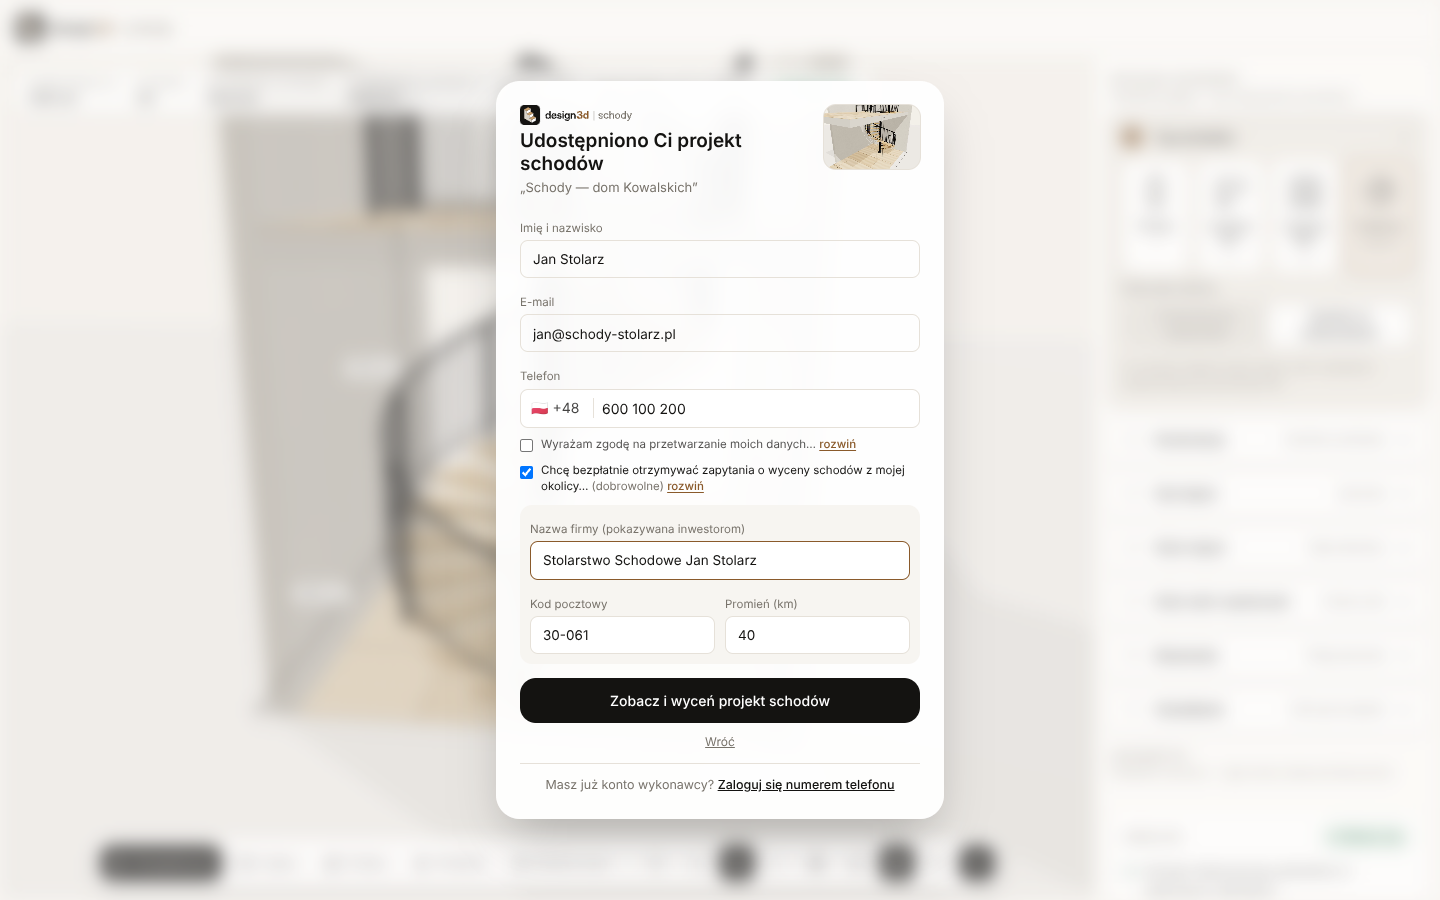
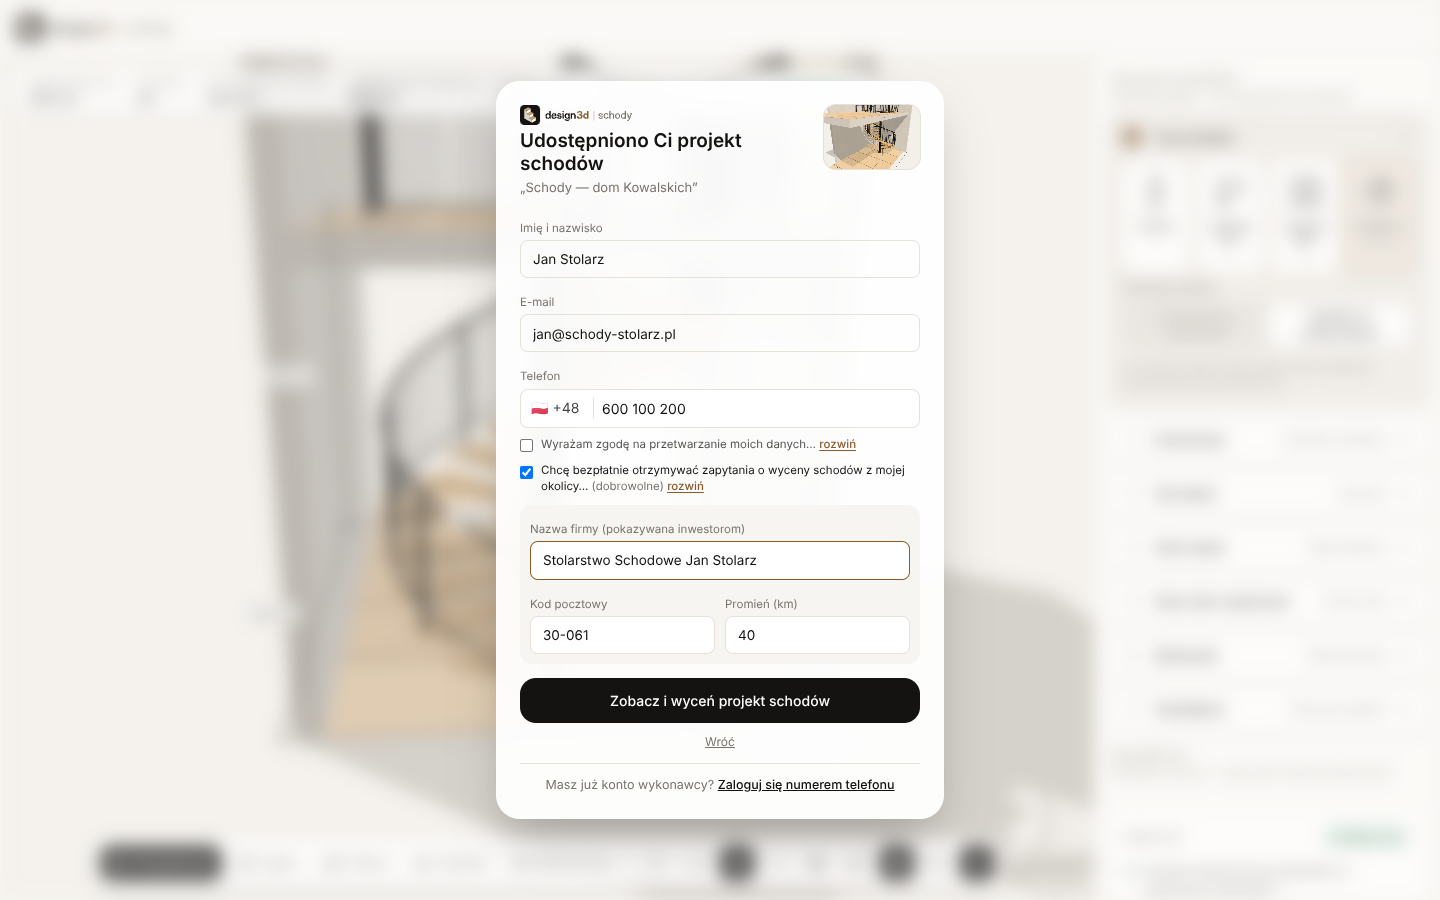
Wizualizacja 3D: cieniowanie kontaktowe, neutralne mapowanie tonów, poświata LED, lepsze światło i posadzka
- Effects.tsx: EffectComposer (MSAA, bufor HDR) z N8AO, tonowaniem Neutral i poświatą LED nocą
- Strażnik płynności wyłącza AO poniżej ~30 kl./s; rzuty bez AO; bez GPU lub po błędzie — zwykły render
- Światło: kontra dla ciemnej stali, mapa cieni 4096 px na komputerze, grunt jako łapacz cieni
- Materiały: posadzka z desek z mapą wypukłości, minimalne albedo czarnej stali
- Nowe zależności konfiguratora: postprocessing, n8ao

Claude-Session: https://claude.ai/code/session_01Y4Tb4zfu7dXnHSeBjFSHkv

diff --git a/configurator/src/three/Effects.tsx b/configurator/src/three/Effects.tsx
@@ -1,0 +1,112 @@
+// Postprodukcja: cieniowanie kontaktowe (ambient occlusion), mapowanie tonów i — nocą — poświata LED.
+// Renderuje scenę przez EffectComposer (MSAA w buforze HDR). Gdy urządzenie nie nadąża, AO wyłącza się samo;
+// gdy kompozytora nie da się utworzyć — scena renderuje się zwykłą ścieżką.
+import { useEffect, useMemo, useRef, useState } from 'react';
+import { useFrame, useThree } from '@react-three/fiber';
+import * as THREE from 'three';
+import { BloomEffect, EffectComposer, EffectPass, RenderPass, ToneMappingEffect, ToneMappingMode } from 'postprocessing';
+import { N8AOPostPass } from 'n8ao';
+import { capture } from './capture';
+
+/** ?fx=0 wyłącza postprodukcję, ?fx=1 wymusza pełną (bez automatycznego wyłączania AO) — do diagnostyki i testów. */
+const FX = typeof location !== 'undefined' ? new URLSearchParams(location.search).get('fx') : null;
+export const fxEnabled = FX !== '0';
+
+function softwareRenderer(gl: THREE.WebGLRenderer): boolean {
+  try {
+    const c = gl.getContext();
+    const ext = c.getExtension('WEBGL_debug_renderer_info');
+    const name = String(ext ? c.getParameter(ext.UNMASKED_RENDERER_WEBGL) : c.getParameter(c.RENDERER));
+    return /swiftshader|llvmpipe|software|softpipe/i.test(name);
+  } catch { return false; }
+}
+
+interface Rig { composer: EffectComposer; ao: N8AOPostPass; bloom: BloomEffect; bloomPass: EffectPass }
+
+export function Effects({ hq, night, glow }: { hq: boolean; night: boolean; glow: boolean }) {
+  const gl = useThree((s) => s.gl);
+  const scene = useThree((s) => s.scene);
+  const camera = useThree((s) => s.camera);
+  const size = useThree((s) => s.size);
+  const dpr = useThree((s) => s.viewport.dpr);
+
+  // awaria w trakcie renderu (np. sterownik bez wymaganych formatów) → trwały powrót do zwykłego renderu
+  const [broken, setBroken] = useState(false);
+  const built = useMemo<Rig | null>(() => {
+    try {
+      // render programowy (brak GPU: SwiftShader, llvmpipe) — postprodukcja byłaby tam zbyt wolna
+      if (FX !== '1' && softwareRenderer(gl)) return null;
+      const composer = new EffectComposer(gl, { multisampling: Math.min(4, gl.capabilities.maxSamples), frameBufferType: THREE.HalfFloatType });
+      composer.addPass(new RenderPass(scene, camera));
+      const ao = new N8AOPostPass(scene, camera);
+      const c = ao.configuration;
+      c.aoRadius = 0.6;          // metry: styk stopnia z belką, ściany z posadzką, tralki z pochwytem
+      c.distanceFalloff = 0.8;
+      c.intensity = 3.4;
+      c.color = new THREE.Color('#1c130b'); // ciepły cień zamiast szarego „brudu”
+      c.halfRes = false; // tryb połówkowy n8ao nie działa z three r187 (wielokrotne cele renderowania) — na telefonie niższa jakość próbkowania
+      c.transparencyAware = false; // szkło nie zapisuje głębi — nie rzuca AO
+      ao.setQualityMode(hq ? 'Medium' : 'Performance');
+      composer.addPass(ao);
+      const bloom = new BloomEffect({ mipmapBlur: true, luminanceThreshold: 1.1, luminanceSmoothing: 0.25, intensity: 0.9, radius: 0.7 });
+      const bloomPass = new EffectPass(camera, bloom);
+      composer.addPass(bloomPass);
+      composer.addPass(new EffectPass(camera, new ToneMappingEffect({ mode: ToneMappingMode.NEUTRAL })));
+      return { composer, ao, bloom, bloomPass };
+    } catch (e) {
+      console.warn('Postprodukcja niedostępna — zwykły render', e);
+      return null;
+    }
+  }, [gl, scene, camera, hq]);
+
+  const rig = broken ? null : built;
+  useEffect(() => () => built?.composer.dispose(), [built]);
+  useEffect(() => { rig?.composer.setSize(size.width, size.height, false); }, [rig, size.width, size.height, dpr]);
+  // poświata tylko nocą przy włączonych LED — w dzień ściany w słońcu przekraczają próg i „świeciłyby”
+  useEffect(() => { if (rig) rig.bloomPass.enabled = night && glow; }, [rig, night, glow]);
+
+  // tonowanie robi kompozytor — renderer zostawia bufor liniowy
+  useEffect(() => {
+    if (!rig) return;
+    const prev = gl.toneMapping;
+    gl.toneMapping = THREE.NoToneMapping;
+    return () => { gl.toneMapping = prev; };
+  }, [gl, rig]);
+
+  // zrzut PNG (miniatura projektu) tą samą ścieżką co ekran
+  useEffect(() => {
+    if (!rig) return;
+    const prev = capture.fn;
+    capture.fn = () => { rig.composer.render(); return gl.domElement.toDataURL('image/png'); };
+    return () => { capture.fn = prev; };
+  }, [gl, rig]);
+
+  // strażnik płynności: jeśli średnio wychodzi < ~30 kl./s, wyłącz AO (największy koszt)
+  const perf = useRef({ n: 0, sum: 0, off: false });
+  // rzuty (z góry / z boku) to widoki techniczne — bez AO, czysty rysunek
+  const ortho = (camera as THREE.OrthographicCamera).isOrthographicCamera === true;
+  useEffect(() => { perf.current = { n: 0, sum: 0, off: ortho }; if (rig) rig.ao.enabled = !ortho; }, [rig, ortho]);
+
+  useFrame((_, dt) => {
+    if (!rig) { gl.render(scene, camera); return; }
+    const p = perf.current;
+    if (FX !== '1' && !p.off && document.visibilityState === 'visible' && dt < 0.5) {
+      p.n++;
+      if (p.n > 20) p.sum += dt; // pomiń rozgrzewkę (kompilacja shaderów)
+      // szybka decyzja przy wyraźnie wolnym renderze, potem ocena co ~90 klatek
+      if (p.n === 40 && p.sum / 20 > 0.08) { rig.ao.enabled = false; p.off = true; }
+      if (p.n === 110) {
+        if (p.sum / 90 > 0.032) { rig.ao.enabled = false; p.off = true; }
+        else { p.n = 20; p.sum = 0; }
+      }
+    }
+    try {
+      rig.composer.render(dt);
+    } catch (e) {
+      console.warn('Postprodukcja wyłączona po błędzie renderu', e);
+      gl.setRenderTarget(null);
+      setBroken(true);
+    }
+  }, 1);
+  return null;
+}

diff --git a/configurator/src/three/textures.ts b/configurator/src/three/textures.ts
@@ -26,40 +26,76 @@ export function woodTextures(key: WoodKey): { map: THREE.CanvasTexture; bump: TH
   return out;
 }
 
-/** Deski dębowe na posadzkę: 2,4 × 2,4 m, deski 20 cm. */
-export function floorTexture(dark = false): THREE.CanvasTexture {
-  const ck = `floor:${dark}`;
+/**
+ * Deski dębowe na posadzkę: kafel 2,4 × 2,4 m, deski 20 cm o losowych długościach (bezszwowo w obu osiach).
+ * Usłojenie liczone per piksel jak w stopnicach; osobna mapa wypukłości (słoje + fugi między deskami).
+ */
+export function floorTextures(): { map: THREE.CanvasTexture; bump: THREE.CanvasTexture } {
+  const ck = 'floor3';
   if (cache.has(ck)) return cache.get(ck);
   const S = 1024;
+  const ROWS = 12;
+  const plank = S / ROWS;
   const [c, g] = canvas(S, S);
-  const plank = S / 12;
-  const base = hex(dark ? '#a98a68' : '#cdb08a');
-  for (let r = 0; r < 12; r++) {
-    let x = -Math.floor(hash(r * 3.1) * 300);
+  const [cb, gb] = canvas(S, S);
+  const img = g.createImageData(S, S);
+  const bimg = gb.createImageData(S, S);
+  const dark = hex('#a98660');
+  const base = hex('#cbb08b');
+  const light = hex('#dcc6a3');
+  for (let r = 0; r < ROWS; r++) {
+    // podział rzędu na deski; przesunięcie rzędu, żeby styki nie wypadały w jednej linii
+    const off = Math.floor(hash(r * 3.1 + 0.7) * S);
+    const ends: number[] = [];
+    let x = 0;
     let j = 0;
     while (x < S) {
-      const len = 260 + Math.floor(hash(r * 7.3 + j * 1.7) * 420);
-      const tone = (hash(r * 11.1 + j * 5.7) - 0.5) * 30;
-      for (let yy = 0; yy < plank; yy++) {
-        const v = yy / plank;
-        for (let k = 0; k < 6; k++) {
-          const yLine = Math.round(r * plank + yy);
-          const shade = Math.sin((v * 7 + fbm((x + k * 40) / 120, r + j) * 3) * Math.PI) * 10;
-          g.fillStyle = `rgb(${base[0] + tone + shade},${base[1] + tone + shade * 0.85},${base[2] + tone + shade * 0.7})`;
-          g.fillRect(x + (k * len) / 6, yLine, len / 6 + 1, 1);
-        }
-      }
-      g.fillStyle = 'rgba(70,50,30,0.55)';
-      g.fillRect(x, r * plank, 2, plank);
-      x += len;
+      x += 300 + Math.floor(hash(r * 7.3 + j * 1.7) * 420);
+      if (S - x < 200) x = S;
+      ends.push(Math.min(S, x));
       j++;
     }
-    g.fillStyle = 'rgba(70,50,30,0.5)';
-    g.fillRect(0, r * plank, S, 2);
+    for (let px = 0; px < S; px++) {
+      const xr = (px + off) % S;
+      let seg = 0;
+      while (ends[seg] <= xr) seg++;
+      const x0 = seg ? ends[seg - 1] : 0;
+      const seed = r * 17 + seg * 5 + 1;
+      const tone = (hash(seed * 9.1) - 0.5) * 0.3;
+      const freq = 0.5 + hash(seed * 5.3) * 0.8;
+      const u = xr / S;
+      const warp = fbm(u * 2.2 + seed, seed) * 1.2; // długie, spokojne słoje (deska, nie sklejka)
+      const wob = fbm(u * 30, seed + 3) * 0.5;
+      const endGap = xr - x0 < 2;
+      for (let py = 0; py < plank; py++) {
+        const y = Math.round(r * plank) + py;
+        if (y >= S) break;
+        const v = py / plank;
+        const ring = Math.sin((v * 13 * freq + warp) * Math.PI + wob);
+        const grain = Math.pow(Math.abs(ring), 0.6);
+        const fine = (hash(px * 0.37 + y * 91.1 + seed) - 0.5) * 0.1;
+        let t = 0.5 + (grain - 0.5) * 0.2 + tone + fine;
+        if (hash(Math.floor(px / 7) * 7.7 + y * 13.3 + seed) > 0.988) t -= 0.2; // pory
+        t = Math.min(1, Math.max(0, t));
+        const gap = endGap || py < 2;
+        const k = gap ? 0.55 : py === 2 || py >= plank - 1 ? 0.9 : 1; // fuga + delikatna faza krawędzi
+        const o = (y * S + px) * 4;
+        for (let i = 0; i < 3; i++) {
+          const col = t < 0.5 ? dark[i] + (base[i] - dark[i]) * (t / 0.5) : base[i] + (light[i] - base[i]) * ((t - 0.5) / 0.5);
+          img.data[o + i] = col * k;
+        }
+        img.data[o + 3] = 255;
+        const bv = gap ? 30 : Math.round((0.55 + grain * 0.25 + fine) * 255);
+        bimg.data[o] = bimg.data[o + 1] = bimg.data[o + 2] = bv;
+        bimg.data[o + 3] = 255;
+      }
+    }
   }
-  const t = tex(c, [1 / 2.4, 1 / 2.4]);
-  cache.set(ck, t);
-  return t;
+  g.putImageData(img, 0, 0);
+  gb.putImageData(bimg, 0, 0);
+  const out = { map: tex(c, [1 / 2.4, 1 / 2.4]), bump: tex(cb, [1 / 2.4, 1 / 2.4], false) };
+  cache.set(ck, out);
+  return out;
 }
 
 /** Subtelna faktura ciepłej białej ściany: 2 × 2 m. */

diff --git a/configurator/src/three/materials.ts b/configurator/src/three/materials.ts
@@ -3,7 +3,7 @@ import * as THREE from 'three';
 import { FINISHES, GLASS_TINTS } from '../engine/catalog';
 import type { Config } from '../engine/types';
 import type { MatKey } from './geom/primitives';
-import { brushedRoughness, floorTexture, meshAlpha, perforatedAlpha, wallTexture, woodTextures } from './textures';
+import { brushedRoughness, floorTextures, meshAlpha, perforatedAlpha, wallTexture, woodTextures } from './textures';
 
 export interface Materials {
   stair: Record<MatKey, THREE.Material>;
@@ -12,12 +12,15 @@ export interface Materials {
   wall: THREE.MeshStandardMaterial;
   wallGhost: THREE.MeshStandardMaterial;
   slab: THREE.MeshStandardMaterial;
-  ground: THREE.MeshStandardMaterial;
+  ground: THREE.ShadowMaterial;
 }
 
 export function createMaterials(): Materials {
   const steel = new THREE.MeshStandardMaterial({ color: '#141414', roughness: 0.78, metalness: 0.15 });
   const railSteel = new THREE.MeshStandardMaterial({ color: '#141414', roughness: 0.78, metalness: 0.15 });
+  // ciemna stal odbija otoczenie mocniej niż reszta sceny — inaczej czarna konstrukcja zlewa się w plamę
+  steel.envMapIntensity = 2.2;
+  railSteel.envMapIntensity = 2.2;
   const w = woodTextures('oakNatural');
   const wood = new THREE.MeshStandardMaterial({ map: w.map, bumpMap: w.bump, bumpScale: 0.6, roughness: 0.58, metalness: 0 });
   const railWood = new THREE.MeshStandardMaterial({ map: w.map, roughness: 0.55, metalness: 0 });
@@ -31,20 +34,26 @@ export function createMaterials(): Materials {
   const mesh = new THREE.MeshStandardMaterial({ color: '#141414', roughness: 0.6, metalness: 0.3, alphaMap: meshAlpha(), alphaTest: 0.5, side: THREE.DoubleSide });
   mesh.alphaToCoverage = true;
   const wallTex = wallTexture();
+  const fl = floorTextures();
   return {
     stair: { steel, railSteel, wood, concrete, riser, railWood, led, glass, glassEdge, perforated, mesh },
-    floor: new THREE.MeshStandardMaterial({ map: floorTexture(), roughness: 0.6 }),
-    upperFloor: new THREE.MeshStandardMaterial({ map: floorTexture(), roughness: 0.6 }),
+    // lakier matowy: lekki połysk pod światło + wypukłość słojów i fug
+    floor: new THREE.MeshStandardMaterial({ map: fl.map, bumpMap: fl.bump, bumpScale: 0.9, roughness: 0.5 }),
+    upperFloor: new THREE.MeshStandardMaterial({ map: fl.map, bumpMap: fl.bump, bumpScale: 0.9, roughness: 0.5 }),
     wall: new THREE.MeshStandardMaterial({ map: wallTex, roughness: 0.92, color: '#ffffff' }),
     wallGhost: new THREE.MeshStandardMaterial({ map: wallTex, roughness: 0.92, transparent: true, opacity: 0.22, depthWrite: false }),
     slab: new THREE.MeshStandardMaterial({ color: '#f2efe9', roughness: 0.9 }),
-    ground: new THREE.MeshStandardMaterial({ color: '#e9e5de', roughness: 1 }),
+    // „łapacz cieni”: grunt poza pokojem jest przezroczysty i pokazuje tylko cień — bez widocznej linii horyzontu
+    ground: new THREE.ShadowMaterial({ color: '#3b3128', opacity: 0.22 }),
   };
 }
 
 function applySteel(m: THREE.MeshStandardMaterial, color: string, finish: string) {
   const f = FINISHES.find((x) => x.key === finish) ?? FINISHES[0];
   m.color.set(color);
+  // żadna farba nie jest idealnie czarna: albedo min. ~3,5% — dzięki temu czarna konstrukcja ma widoczną bryłę i cieniowanie
+  const lift = 0.045;
+  m.color.setRGB(Math.max(m.color.r, lift), Math.max(m.color.g, lift), Math.max(m.color.b, lift), THREE.LinearSRGBColorSpace);
   m.roughness = f.roughness;
   m.metalness = f.metalness;
   const wantMap = finish === 'brushed' ? brushedRoughness() : null;

diff --git a/configurator/src/three/Scene.tsx b/configurator/src/three/Scene.tsx
@@ -1,6 +1,7 @@
 // Scena 3D — ładowana leniwie (three w osobnym chunku).
 import { useEffect, useMemo, useRef, useState } from 'react';
 import { Canvas, useThree } from '@react-three/fiber';
+import * as THREE from 'three';
 import { useIsMobile } from '../ui/useIsMobile';
 import { useConfig, useSolved, useView } from '../store/store';
 import { createMaterials, updateMaterials } from './materials';
@@ -13,6 +14,7 @@ import { Overlays } from './Overlays';
 import { LabelContext, LabelLayer, LabelUpdater } from './Labels';
 import { capture } from './capture';
 import { CommentPins } from './CommentPins';
+import { Effects, fxEnabled } from './Effects';
 import { useStudio } from '../studio/studioStore';
 import type { ThreeEvent } from '@react-three/fiber';
 import type { DimView } from '../engine/dimensions';
@@ -51,7 +53,7 @@ export default function Scene() {
 
   return (
     <div className={`absolute inset-0 ${commentMode ? 'cursor-crosshair' : ''}`}>
-      <Canvas shadows="percentage" gl={{ antialias: true, preserveDrawingBuffer: false, powerPreference: 'high-performance' }} dpr={[1, 2]} data-testid="stair-canvas">
+      <Canvas shadows="percentage" gl={{ antialias: true, preserveDrawingBuffer: false, powerPreference: 'high-performance', toneMapping: THREE.NeutralToneMapping }} dpr={[1, 2]} data-testid="stair-canvas">
         <LabelContext.Provider value={layer}>
           <CameraRig config={config} solved={solved} view={view} />
           <Lighting config={config} solved={solved} hq={!mobile} />
@@ -64,6 +66,7 @@ export default function Scene() {
           <Dimensions config={config} solved={solved} view={dimView} sideFlip={view.sideFlip} />
           <LabelUpdater />
           <Capture />
+          {fxEnabled && <Effects hq={!mobile} night={config.lighting.night} glow={config.lighting.led} />}
         </LabelContext.Provider>
       </Canvas>
       <div ref={labelRoot} className="pointer-events-none absolute inset-0 overflow-hidden" />

diff --git a/configurator/src/three/Lighting.tsx b/configurator/src/three/Lighting.tsx
@@ -37,14 +37,16 @@ export function Lighting({ config, solved, hq = true }: { config: Config; solved
   const ledColor = lighting.ledTemp === 2700 ? '#ffb46b' : '#ffe2c2';
   return (
     <>
-      <hemisphereLight args={[night ? '#3a4050' : '#fffaf0', night ? '#20232a' : '#d8cdbd', night ? 0.15 : 0.55]} />
+      <hemisphereLight args={[night ? '#3a4050' : '#f3f6fb', night ? '#20232a' : '#d9cfc0', night ? 0.15 : 0.58]} />
+      {/* kontra bez cieni z przeciwnej strony: wydobywa bryłę ciemnej stali i spody stopni */}
+      {!night && <directionalLight position={[W / 2 - 7, H * 0.6, D / 2 - 4]} intensity={0.45} color="#eaf0ff" />}
       <directionalLight
         ref={sun}
         castShadow
         position={[W / 2 + 6, H + 7, D / 2 + 5]}
-        intensity={night ? 0 : 2.4}
-        color="#fff4e2"
-        shadow-mapSize={[2048, 2048]}
+        intensity={night ? 0 : 2.3}
+        color="#fff8ee"
+        shadow-mapSize={hq ? [4096, 4096] : [2048, 2048]}
         shadow-radius={hq ? 3 : 2}
         shadow-bias={-0.0004}
         shadow-normalBias={0.02}
@@ -54,7 +56,7 @@ export function Lighting({ config, solved, hq = true }: { config: Config; solved
       {lighting.led && night && ledLights.map((p, i) => (
         <pointLight key={i} position={p} intensity={2.6 * lighting.ledBrightness} distance={2.6} decay={2} color={ledColor} />
       ))}
-      <Environment resolution={256} environmentIntensity={night ? 0.12 : 0.75} background={false} frames={1}>
+      <Environment resolution={256} environmentIntensity={night ? 0.12 : 0.72} background={false} frames={1}>
         {/* jasne, ciepłe tło otoczenia: metal (np. szampański, szczotkowany) odbija wnętrze zamiast czerni */}
         <color attach="background" args={['#5f584e']} />
         <Lightformer form="rect" intensity={2.2} color="#fffaf2" position={[0, 6, 0]} rotation-x={Math.PI / 2} scale={[12, 12, 1]} />

diff --git a/configurator/src/three/n8ao.d.ts b/configurator/src/three/n8ao.d.ts
@@ -1,0 +1,14 @@
+declare module 'n8ao' {
+  import type { Camera, Color, Scene } from 'three';
+  import { Pass } from 'postprocessing';
+  export class N8AOPostPass extends Pass {
+    constructor(scene: Scene, camera: Camera, width?: number, height?: number);
+    camera: Camera;
+    configuration: {
+      aoRadius: number; distanceFalloff: number; intensity: number; color: Color; halfRes: boolean; aoSamples: number; denoiseSamples: number; denoiseRadius: number;
+      screenSpaceRadius: boolean; depthAwareUpsampling: boolean; gammaCorrection: boolean; transparencyAware: boolean; accumulate: boolean; biasOffset: number; biasMultiplier: number;
+    };
+    setQualityMode(mode: 'Performance' | 'Low' | 'Medium' | 'High' | 'Ultra'): void;
+    setSize(width: number, height: number): void;
+  }
+}

diff --git a/configurator/src/three/Room.tsx b/configurator/src/three/Room.tsx
@@ -64,7 +64,8 @@ export function Room({ config, solved, view, mats }: Props) {
   return (
     <group>
       {/* grunt poza pokojem */}
-      <mesh rotation-x={-Math.PI / 2} position={[W / 2, -0.002, D / 2]} receiveShadow material={mats.ground}>
+      {/* łapacz cieni: tylko w dzień i w widokach perspektywicznych (w rzutach i nocą tło zostaje czyste) */}
+      <mesh rotation-x={-Math.PI / 2} position={[W / 2, -0.002, D / 2]} receiveShadow material={mats.ground} visible={!config.lighting.night && view.camera !== 'top' && view.camera !== 'side'}>
         <planeGeometry args={[W + 30, D + 30]} />
       </mesh>
       {/* posadzka z desek (także poza pokojem przy brakujących ścianach) */}

diff --git a/README.md b/README.md
@@ -29,6 +29,11 @@ npm start          # http://localhost:3000/  (PORT z env)
 - **LED przy szkle:** przy szklanej balustradzie oprawy punktowe i profil wzdłuż biegu są dostępne tylko, gdy każdy bieg ma obok ścianę (inaczej byłyby za szkłem) — wtedy zostaje taśma pod noskami.
 - **Telefon / iOS:** wszystkie pola tekstowe, listy i pola wielowierszowe mają na ekranach dotykowych czcionkę ≥ 16 px (reguła w `configurator/src/index.css` i `public/admin/styles.css`), więc Safari nie przybliża strony przy wpisywaniu. „Imię i nazwisko” to wszędzie jedno pole — serwer rozdziela je na imię i nazwisko.
 - **Fokus na telefonie:** pole z fokusem przewija się w widoczny obszar po wysunięciu klawiatury (w panelu — tuż pod przyklejoną scenę, w oknach — na środek); w „Zapisz i udostępnij” kursor trafia kolejno w imię i nazwisko, kod SMS, kod pocztowy.
+- **Jakość wizualizacji 3D** (`src/three/Effects.tsx`, `Lighting.tsx`, `materials.ts`, `textures.ts`):
+  - postprodukcja przez `postprocessing` + `n8ao`: cieniowanie kontaktowe (ambient occlusion), neutralne mapowanie tonów (Khronos PBR Neutral — drewno zachowuje kolor) i nocą poświata LED;
+  - AO wyłącza się samo, gdy render spada poniżej ~30 kl./s; w rzutach z góry i z boku jest wyłączone. Bez GPU (render programowy) albo po błędzie scena wraca do zwykłego renderu. `?fx=0` wyłącza efekty, `?fx=1` wymusza je (testy);
+  - światło: mocniejszy kontrast słońce / otoczenie, kontra wydobywająca ciemną stal, mapa cieni 4096 px na komputerze; grunt poza pokojem jest „łapaczem cieni” (bez linii horyzontu);
+  - materiały: nowa posadzka z desek (słoje i fugi z mapą wypukłości), czerń stali z minimalnym albedo, żeby konstrukcja miała widoczną bryłę.
 - **Logowanie numerem telefonu i kodem SMS** (`POST /api/studio/login/start`, `/login/verify`, `/logout`):
   - **Wykonawca:** wchodzi do panelu przez `/konfigurator/firma` (ekran logowania przy braku sesji) albo z bramki udostępnionego linku („Masz już konto?”). Wylogowanie jest w Profilu firmy.
   - **Klient:** pozycja „Moje projekty — zaloguj się numerem” w menu „Zapisz ▾” albo link `/konfigurator/?login=1` („Moje projekty” na landingu). Po zalogowaniu projekty przypisane do numeru są dostępne na tym urządzeniu.
